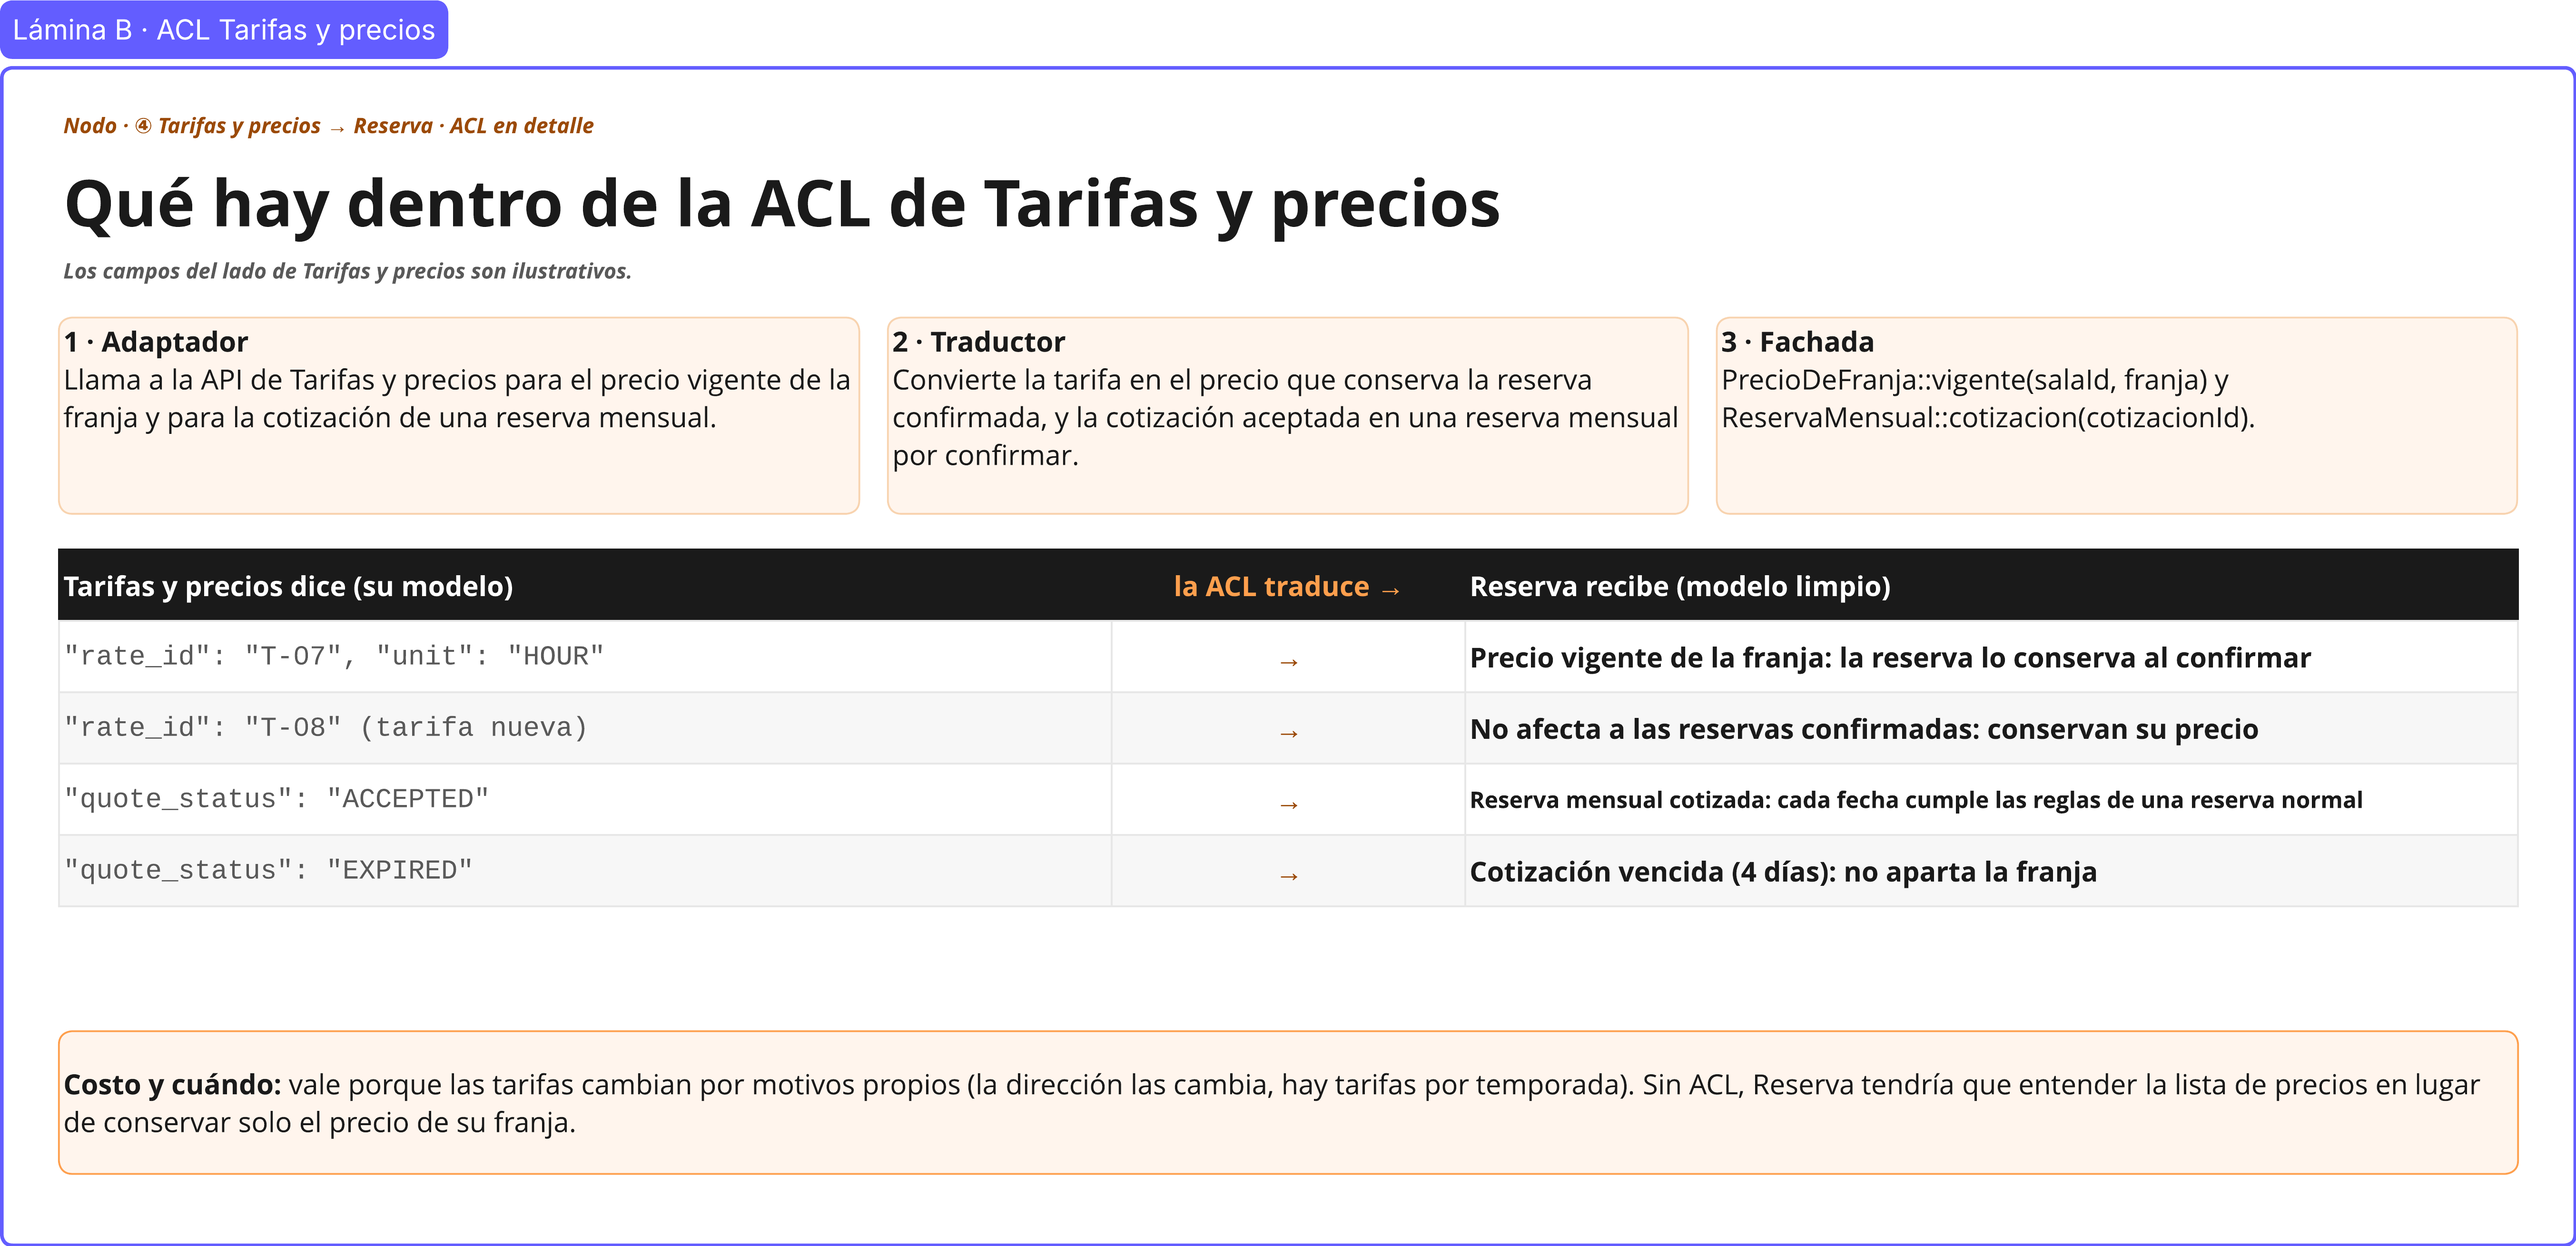
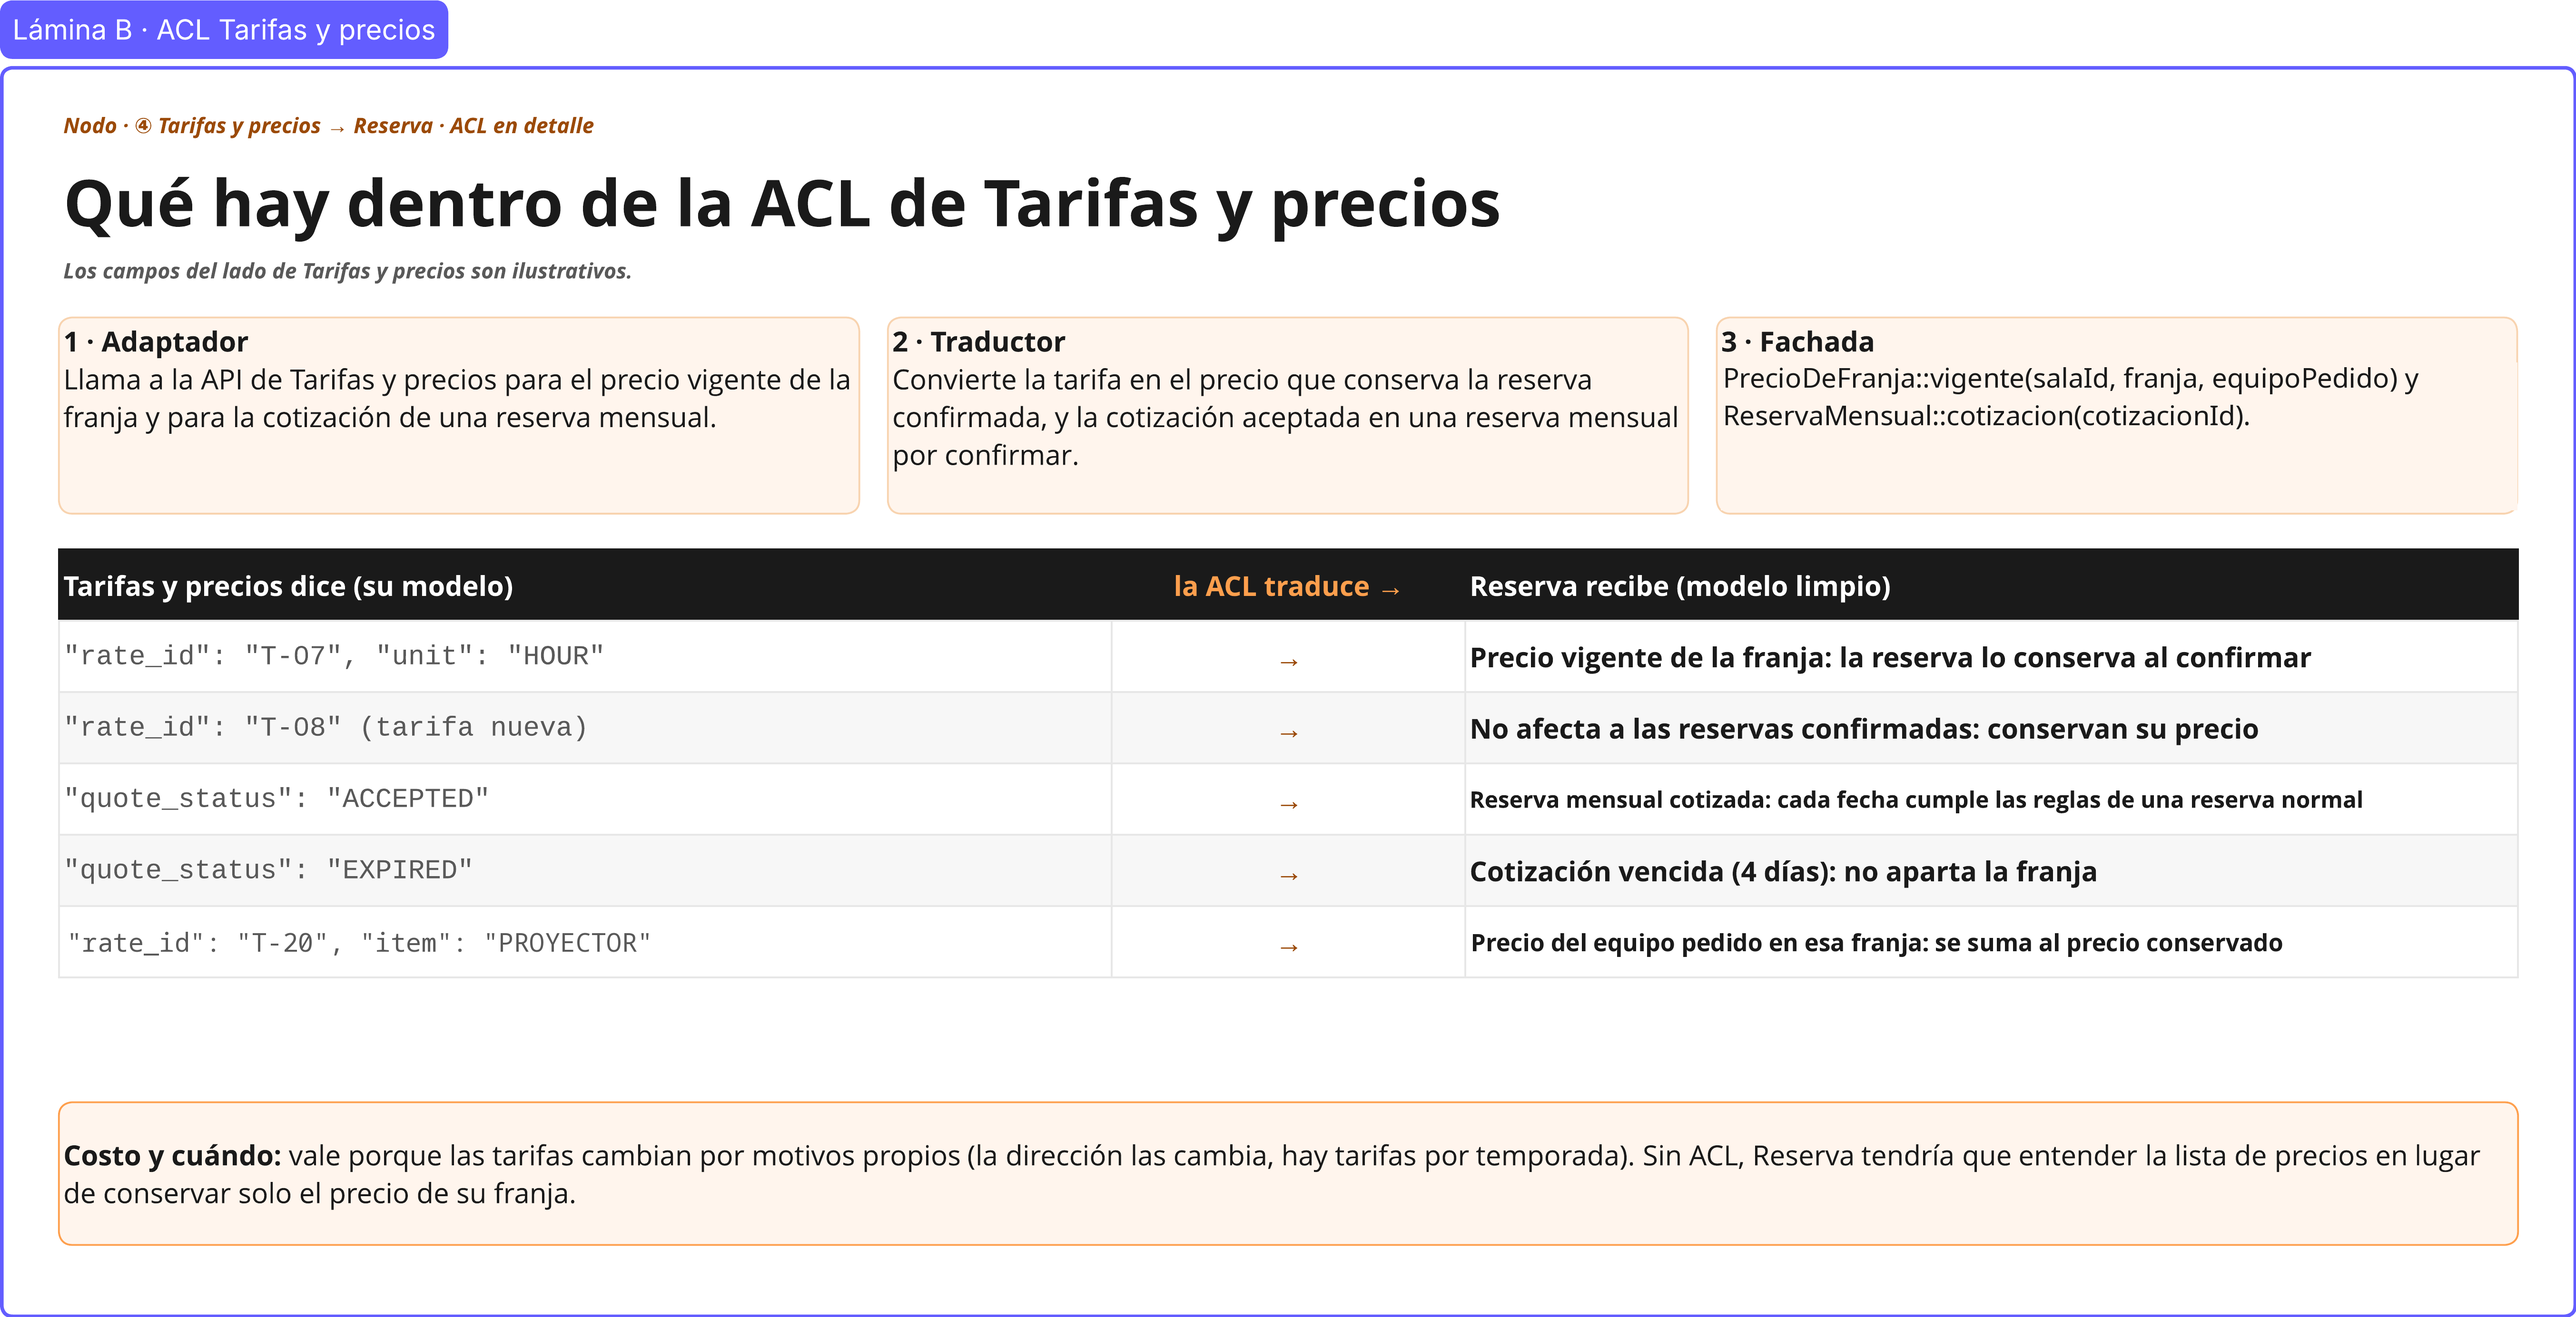
Imágenes del repositorio alineadas con el análisis y el modelo
- 05 y capas 1 a 4: línea ⑩ con Agenda de eventos y Separate Ways por los espacios.
- 08 Agenda del recurso: recursoId + fecha, margen 0 en equipo, liberarResto (P-12).
- 08 Reserva: EquipoPedido, unidades asignadas e INV-R1 con equipo.
- 01, 03, 04, 06, 09 y láminas A y B: expertos, R-08, P-12, H-13 a H-16,
  práctica del 10-20 % en el as-is, equipo portátil y pseudocódigo actual.
- 08-modelo y 09-componentes: INV-D1/D2, concurrencia y D-55 por recurso.
- 07: fachadas con equipo; se quitan las notas de imágenes pendientes.

diff --git a/docs/07-integracion.md b/docs/07-integracion.md
@@ -16,8 +16,6 @@
 
 Las formas son las del [context map](05-context-map.md#vista-general-del-mapa): recuadro naranja, nuestra área; cajas blancas con borde gris, vecinos supporting; cajas grises punteadas, genéricos; franja gris al pie, Notificaciones (transversal).
 
-> **Nota sobre las imágenes:** la línea ⑩ (equipo portátil compartido con Agenda de eventos) se agregó en esta revisión; hay que dibujarla en los frames de Miro y volver a exportar las imágenes.
-
 ---
 
 ## 1. Capa 1 · Patrón de cada relación
@@ -140,14 +138,14 @@ Cada ACL u OHS tiene su lámina en Miro. Cada lámina muestra arriba las tres pi
 
 ![Lámina A · ACL de Espacios y recursos](img/07-lamina-a-acl-espacios.png)
 
-**Para qué sirve:** Espacios y recursos mantiene el catálogo completo de Nodo (escritorios, salas y salón). A nuestra área solo le interesan las salas de reunión: Disponibilidad necesita saber cuáles se pueden reservar y Reserva necesita su aforo. El ACL filtra lo que no es nuestro y entrega cada dato al contexto que lo usa.
+**Para qué sirve:** Espacios y recursos mantiene el catálogo completo de Nodo (escritorios, salas y salón). A nuestra área solo le interesan las salas que se reservan por franja (las de reunión y la de capacitación) y las unidades de equipo portátil: Disponibilidad necesita saber cuáles se pueden reservar y Reserva necesita el aforo de cada sala. El ACL filtra lo que no es nuestro y entrega cada dato al contexto que lo usa.
 
-**Cuándo actúa:** cuando el catálogo avisa que una sala se creó, cambió o se dio de baja (mensajería async), y cuando Reserva consulta el aforo al registrar una solicitud (API REST).
+**Cuándo actúa:** cuando el catálogo avisa que una sala o una unidad de equipo se creó, cambió o se dio de baja (mensajería async), y cuando Reserva consulta el aforo al registrar una solicitud (API REST).
 
 | Pieza | Qué hace |
 |---|---|
-| Adaptador | Escucha los eventos del catálogo (sala creada, cambiada o dada de baja) y consulta el aforo de una sala. |
-| Traductor | Convierte el tipo y el estado en salas de reunión reservables para Disponibilidad, y la capacidad en aforo para Reserva. |
+| Adaptador | Escucha los eventos del catálogo (sala o equipo creado, cambiado o dado de baja) y consulta el aforo de una sala. |
+| Traductor | Convierte el tipo y el estado en salas reservables y unidades de equipo portátil para Disponibilidad, y la capacidad en aforo para Reserva. |
 | Fachada | `SalasReservables::obtener(salaId)` y `EquipoPortatil::unidades(tipo)` para Disponibilidad, y `AforoDeSala::consultar(salaId)` para Reserva. |
 
 | Espacios y recursos dice | Disponibilidad y Reserva reciben |
@@ -166,7 +164,7 @@ Cada ACL u OHS tiene su lámina en Miro. Cada lámina muestra arriba las tres pi
 
 ![Lámina B · ACL de Tarifas y precios](img/07-lamina-b-acl-tarifas.png)
 
-**Para qué sirve:** Tarifas y precios maneja la lista de precios de Nodo. Reserva no necesita la lista: solo el precio de **su** franja en el momento de confirmar, que conserva aunque la tarifa cambie después. También recibe la cotización de una reserva mensual cuando el cliente la acepta.
+**Para qué sirve:** Tarifas y precios maneja la lista de precios de Nodo. Reserva no necesita la lista: solo el precio de **su** franja (sala y equipo pedido) en el momento de confirmar, que conserva aunque la tarifa cambie después. También recibe la cotización de una reserva mensual cuando el cliente la acepta.
 
 **Cuándo actúa:** al confirmar una reserva (precio vigente) y al aceptar una cotización mensual (API REST).
 
@@ -174,15 +172,15 @@ Cada ACL u OHS tiene su lámina en Miro. Cada lámina muestra arriba las tres pi
 |---|---|
 | Adaptador | Llama a la API de Tarifas y precios para el precio vigente de la franja y la cotización de una reserva mensual. |
 | Traductor | Convierte la tarifa en el precio que conserva la reserva confirmada, y la cotización aceptada en una reserva mensual por confirmar. |
-| Fachada | `PrecioDeFranja::vigente(salaId, franja)` y `ReservaMensual::cotizacion(cotizacionId)`. |
+| Fachada | `PrecioDeFranja::vigente(salaId, franja, equipoPedido)` y `ReservaMensual::cotizacion(cotizacionId)`. |
 
 | Tarifas y precios dice | Reserva recibe |
 |---|---|
 | `"rate_id": "T-07", "unit": "HOUR"` | Precio vigente de la franja: la reserva lo conserva al confirmar |
 | `"rate_id": "T-08"` (tarifa nueva) | No afecta a las reservas confirmadas: conservan su precio |
-| `"rate_id": "T-20", "item": "PROYECTOR"` | Precio del equipo pedido en esa franja: se suma al precio conservado de la reserva |
 | `"quote_status": "ACCEPTED"` | Reserva mensual cotizada: cada fecha cumple las reglas de una reserva normal (HI-09) |
 | `"quote_status": "EXPIRED"` | Cotización vencida (4 días): no aparta la franja (HI-08) |
+| `"rate_id": "T-20", "item": "PROYECTOR"` | Precio del equipo pedido en esa franja: se suma al precio conservado de la reserva |
 
 **Costo y cuándo:** vale porque las tarifas cambian por motivos propios (la dirección las cambia y hay tarifas por temporada). Sin ACL, Reserva tendría que entender la lista de precios en lugar de conservar solo el precio de su franja.
 

diff --git a/docs/08-modelo.md b/docs/08-modelo.md
@@ -59,8 +59,8 @@ La sala o la unidad de equipo (Espacios y recursos) y la reserva (contexto Reser
 
 | ID | Invariante |
 |---|---|
-| INV-D1 | Nunca dos ocupaciones se solapan en la misma sala (reservas confirmadas, provisionales o bloqueos). |
-| INV-D2 | Siempre quedan 15 min de margen, también frente a un bloqueo. |
+| INV-D1 | Nunca dos ocupaciones se solapan en el mismo recurso (reservas confirmadas, provisionales, eventos del salón o bloqueos). |
+| INV-D2 | En una sala siempre quedan 15 min de margen, también frente a un bloqueo. El equipo portátil no lleva margen. |
 | INV-D3 | Una franja bloqueada no admite nuevas ocupaciones. Se puede bloquear sobre una reserva confirmada: queda como reserva afectada (P-09). |
 | INV-D4 | Solo se libera una ocupación existente, y una sola vez. |
 | INV-D5 | El exceso de tiempo nunca invade una reserva confirmada, contando el margen. |
@@ -84,7 +84,7 @@ La sala o la unidad de equipo (Espacios y recursos) y la reserva (contexto Reser
 
 ### Concurrencia: el último cupo
 
-Hay una agenda **por sala y por día**, con versión (bloqueo optimista). Si dos solicitudes ocupan la misma agenda a la vez, una gana; la otra reintenta, encuentra la franja ocupada y se rechaza o entra en la lista de espera (HI-01). La agenda es pequeña, así que solo compiten quienes piden la misma sala el mismo día.
+Hay una agenda **por recurso y por día**, con versión (bloqueo optimista). Si dos solicitudes ocupan la misma agenda a la vez, una gana; la otra reintenta, encuentra la franja ocupada y se rechaza o entra en la lista de espera (HI-01). La agenda es pequeña, así que solo compiten quienes piden el mismo recurso (la misma sala o la misma unidad de equipo) el mismo día.
 
 **Salas disponibles** es un modelo de lectura aparte, que se actualiza con los eventos de la agenda; no es este aggregate. Muestra también el equipo fijo de cada sala (informativo) y cuántas unidades de equipo portátil quedan libres en la franja.
 
@@ -260,7 +260,7 @@ Cada domain event del modelo sale de una nota naranja del muro ([03-eventstormin
 |---|---|
 | D-53 | Un bloqueo se puede retirar antes de su fin, solo por quien puede bloquear; al retirarlo se emite *Franja liberada*. |
 | D-54 | Dinero(monto, moneda) sin fijar la moneda en el modelo: la define Tarifas y precios. |
-| D-55 | Una agenda por sala y por día (salaId + fecha), con versión para la concurrencia. |
+| D-55 | Una agenda por recurso y por día (recursoId + fecha), con versión para la concurrencia. El recurso es una sala o una unidad de equipo portátil (D-62). |
 | D-56 | Lista de espera es un aggregate propio, por sala y franja, que protege INV-R9. |
 | D-61 | `ocupar` devuelve «ocupada» o «no disponible» y no emite evento: el muro no tiene la nota «Franja ocupada». |
 | D-62 | El equipo portátil usa el mismo aggregate Agenda del recurso, una agenda por unidad y sin margen. La reserva confirma solo si la sala y una unidad de cada equipo pedido quedaron ocupadas; si falta equipo, no se confirma una parte del pedido. |

diff --git a/docs/09-componentes.md b/docs/09-componentes.md
@@ -77,7 +77,7 @@ ListaDeEsperaRepository
 | Método | Qué hace |
 |---|---|
 | `Reserva.solicitar(titular, salaId, franja, asistentes, equipoPedido, registradaPor?, ahora)` | Fija el estado Solicitada, guarda el equipo pedido, calcula la Anticipación (INV-R4), distingue miembro, visitante y reserva asistida, y asigna `PolíticaDeCancelación.estándar()`. |
-| `AgendaDelRecurso.abrir(salaId, fecha)` | Crea la agenda vacía la primera vez que se pide esa sala ese día. |
+| `AgendaDelRecurso.abrir(recursoId, fecha)` | Crea la agenda vacía la primera vez que se pide ese recurso (una sala o una unidad de equipo) ese día. |
 | `ListaDeEspera.abrir(salaId, franja)` | Crea la lista vacía la primera vez que alguien espera esa franja. |
 
 Ninguno coordina otros aggregates: una clase factory solo envolvería un constructor.

diff --git a/docs/05-context-map.md b/docs/05-context-map.md
@@ -22,8 +22,6 @@
 
 Cada número ①–⑩ tiene su detalle en [Qué cruza cada relación](#3-qué-cruza-cada-relación). Los nombres son los de [01-subdominios.md](01-subdominios.md) y los términos, los de [02-glosario.md](02-glosario.md).
 
-> **Nota sobre las imágenes:** la línea ⑩ (equipo portátil compartido con Agenda de eventos) se agregó en esta revisión; hay que dibujarla en los frames de Miro y volver a exportar las imágenes.
-
 ---
 
 ## 1. Propósito
